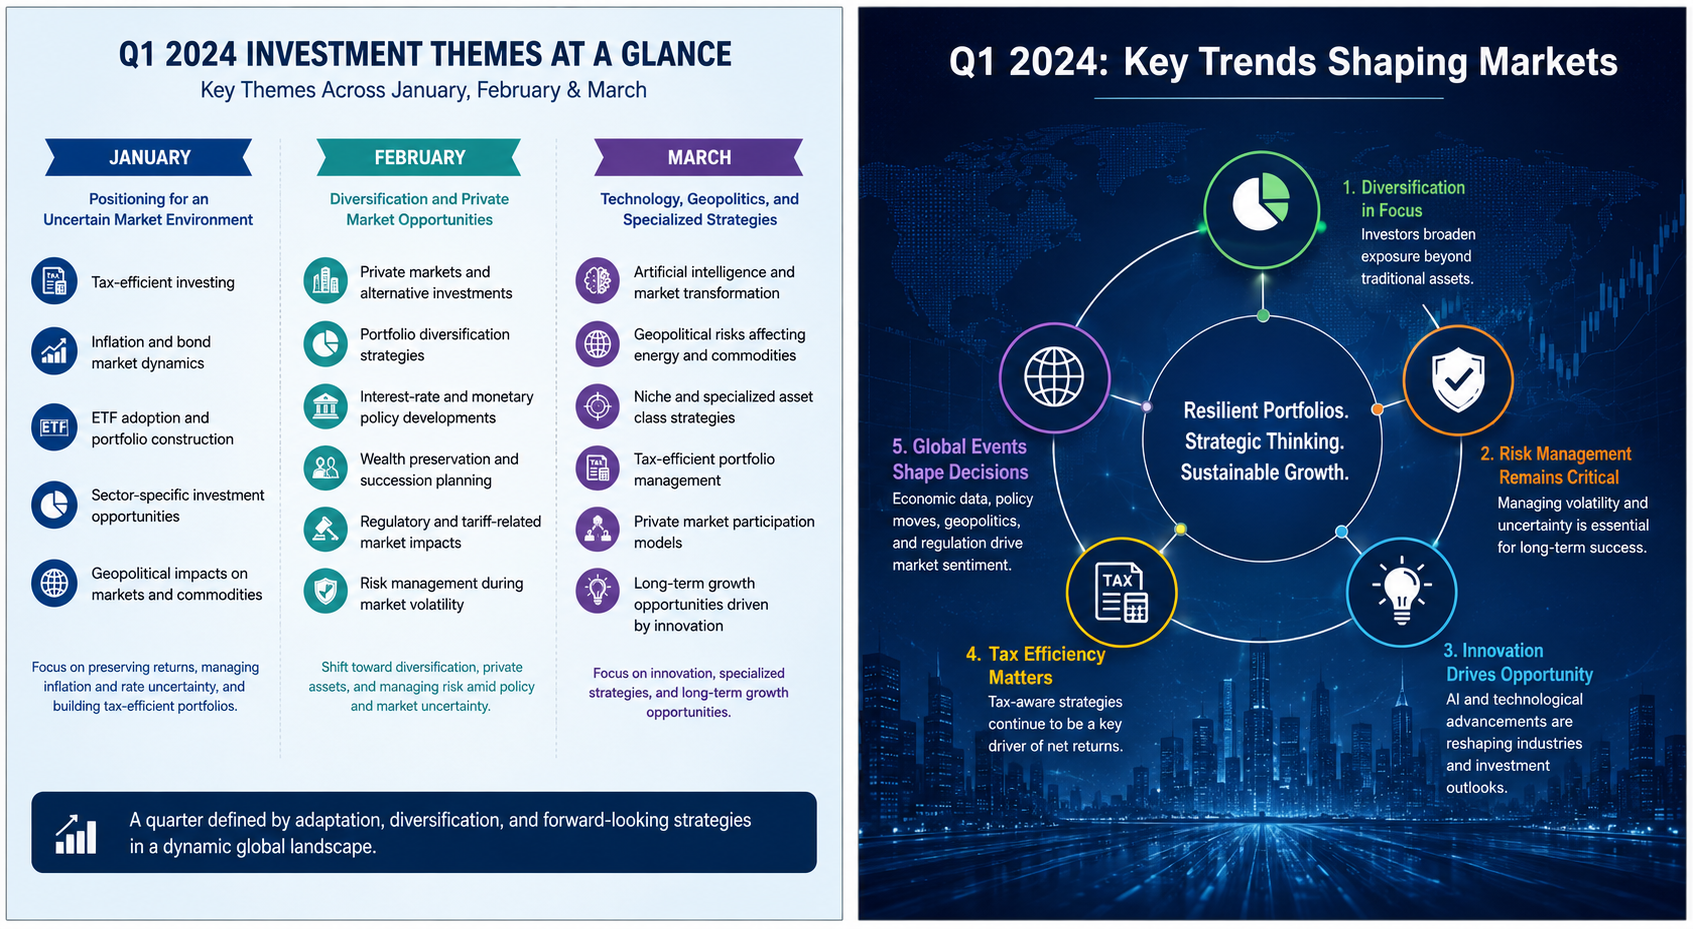
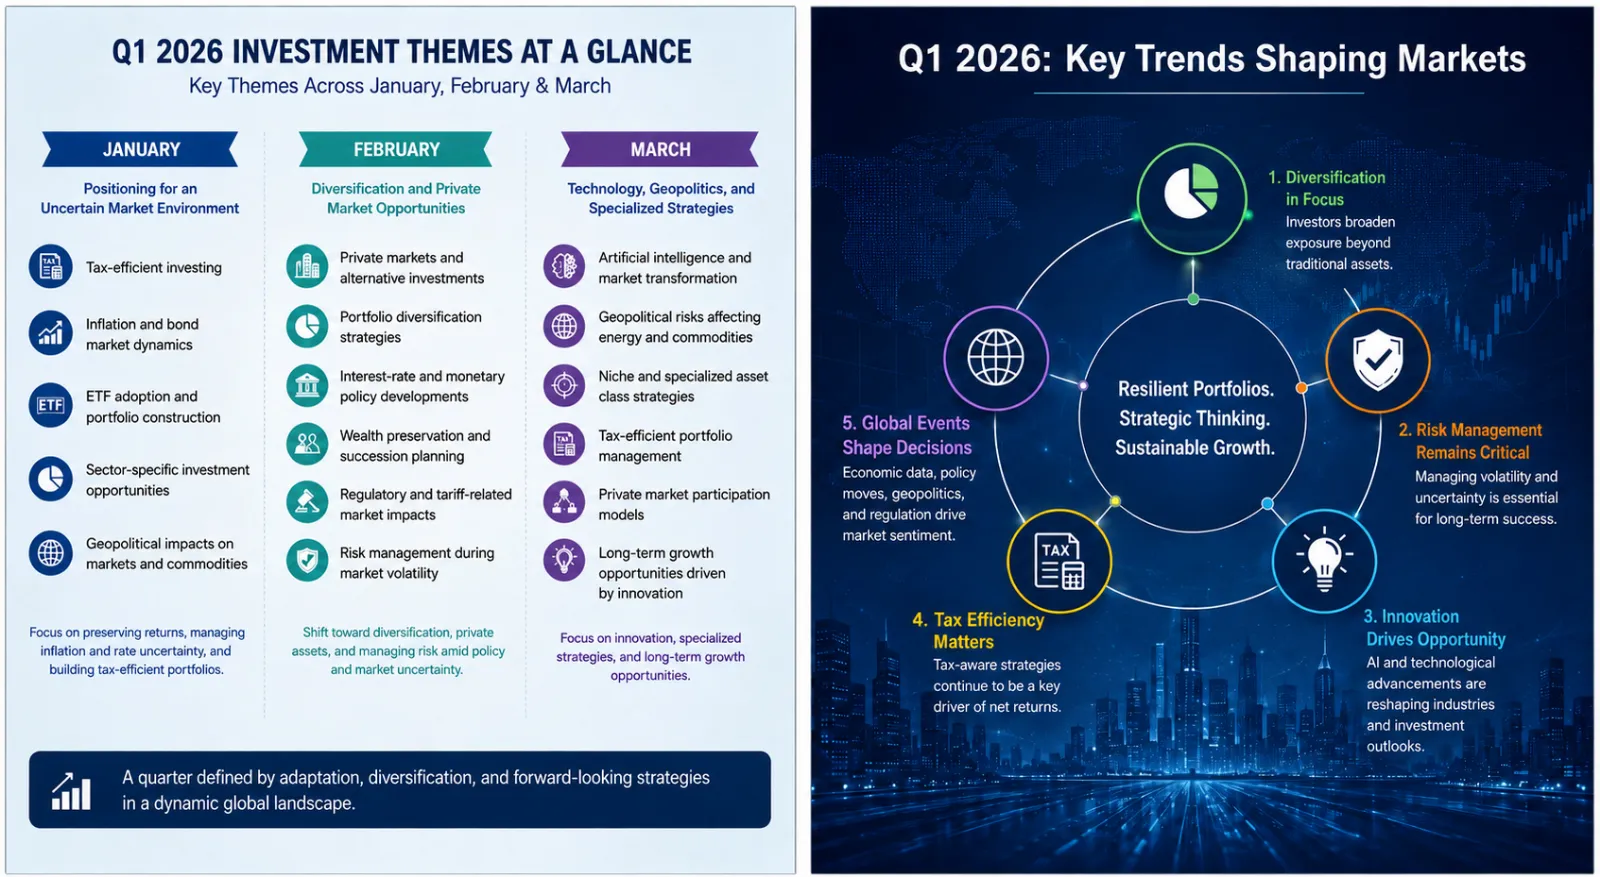
blog updated

diff --git a/_posts/2026-06-04-How investment conversations shifted through Q1.md b/_posts/2026-06-04-How investment conversations shifted through Q1.md
@@ -12,7 +12,7 @@ toc:
   sidebar: left
 pretty_table: true
 ---
-*By Devansh Dutta · May 2026 · ~10 min read*
+*By Devansh Dutta · June 2026 · ~ 7 min read*
 
 *From playing it safe in January to seriously talking about AI by March — here's what actually changed this quarter.*
 
